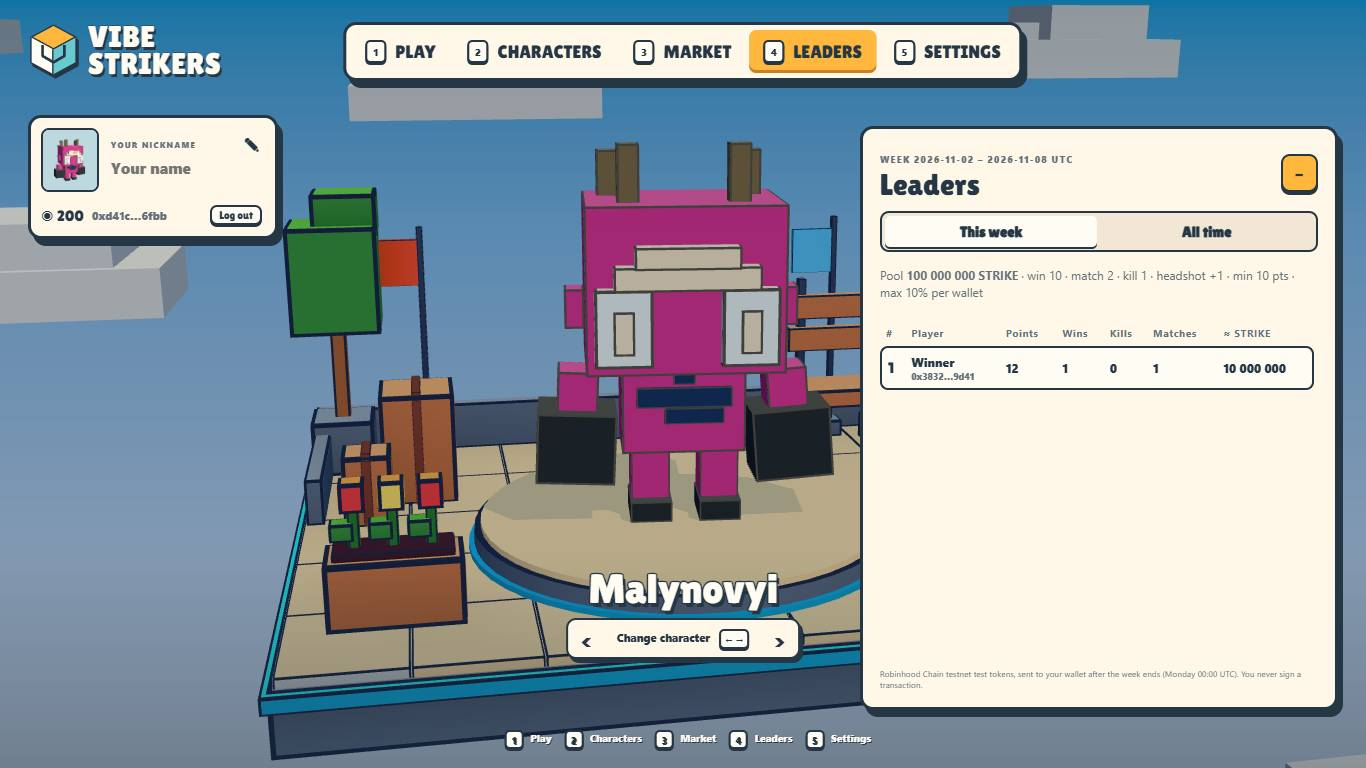
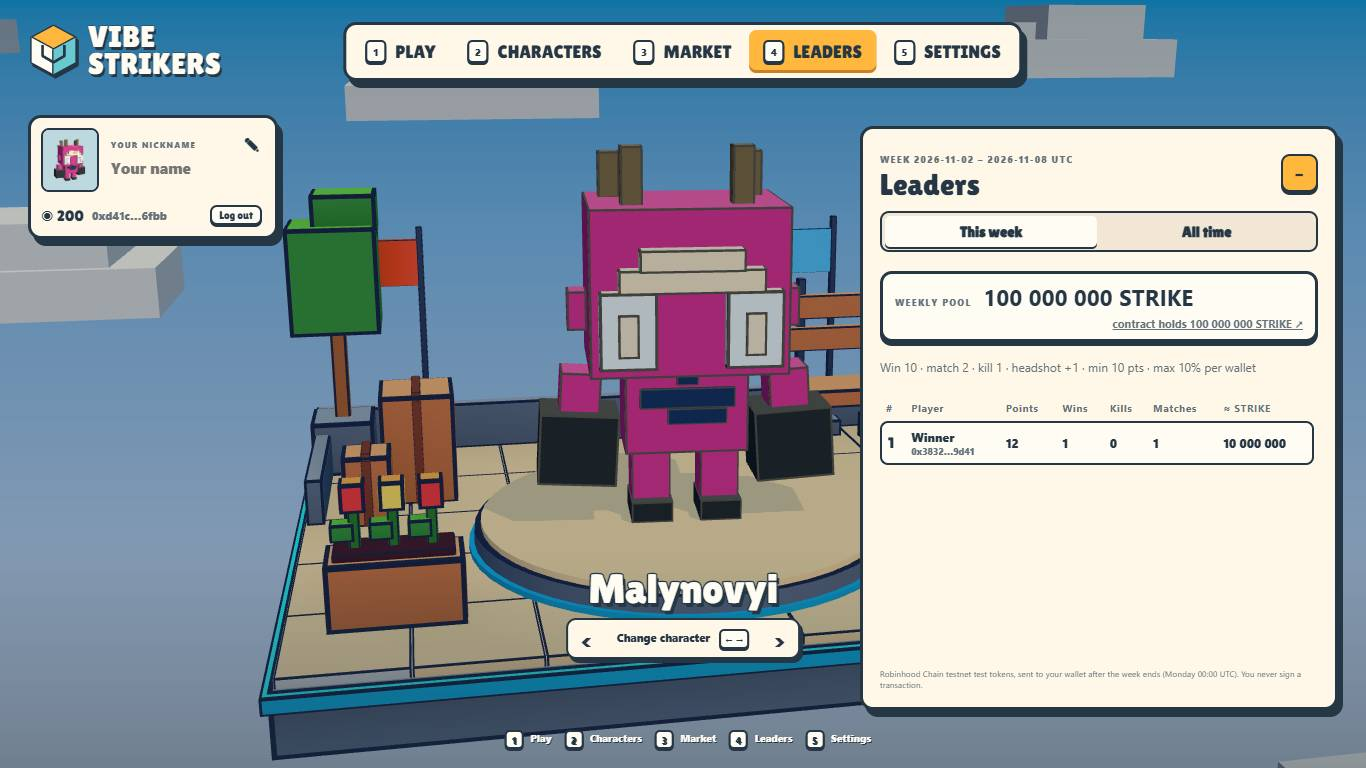
LEADERS: weekly pool card with the distributor's live STRIKE balance (read-only RPC) and explorer link

diff --git a/src/ui/leaderPanel.ts b/src/ui/leaderPanel.ts
@@ -5,6 +5,7 @@ import { REWARDS } from '../config/rewards.ts';
 import { formatTokens, payoutPlan, toUnits, weekLabel, weekPoints } from '../gameplay/rewards.ts';
 import { shortAddress } from '../gameplay/walletMessage.ts';
 import type { GameNet } from '../network/client.ts';
+import { poolBalance, poolExplorerUrl, refreshPoolBalance } from '../network/rewardsPool.ts';
 // Same styles as the market panel; imported here too so LEADERS works when MARKET was never opened.
 import '../../client/game/market.css';
 
@@ -76,11 +77,17 @@ export class LeaderPanel {
   }
 
   /** This week: points, and the share of the configured pool if the week ended now (payoutPlan). */
+  /** This week's pool: the configured amount, or less when the contract holds less (live balance). */
+  private weekPool(): bigint {
+    const cfg = toUnits(REWARDS.weekPoolTokens), live = poolBalance();
+    return live !== null && live < cfg ? live : cfg;
+  }
+
   private weekLines(): WeekLine[] {
     const m = this.net?.market;
     if (!m) return [];
     const rows = [...m.weekStats.values()];
-    const plan = new Map(payoutPlan(rows, toUnits(REWARDS.weekPoolTokens)).map((p) => [p.owner, p.amount]));
+    const plan = new Map(payoutPlan(rows, this.weekPool()).map((p) => [p.owner, p.amount]));
     return rows.map((r) => ({ owner: r.owner, name: r.name, points: weekPoints(r), wins: r.wins, kills: r.kills,
       matches: r.matches, amount: plan.get(r.owner) ?? 0n }))
       .sort((a, b) => b.points - a.points || b.wins - a.wins || a.owner.localeCompare(b.owner));
@@ -107,12 +114,19 @@ export class LeaderPanel {
     if (myRank >= TOP_ROWS) body += `<tr class="gap"><td colspan="7">…</td></tr>${this.weekRow(all[myRank], myRank + 1, me)}`;
     const p = REWARDS.points, sym = REWARDS.token.symbol;
     const empty = !m ? 'Connecting…' : all.length ? '' : 'No points this week yet. Log in with a wallet and play an online match.';
+    const live = poolBalance(), link = poolExplorerUrl();
+    // Re-read the contract balance (cached); redraw only when it changed, so this never loops.
+    void refreshPoolBalance().then((b) => { if (b !== live) this.refresh(); });
+    const held = live === null ? 'checking the contract…' : `contract holds ${formatTokens(live)} ${sym}`;
     this.root.innerHTML = `
       <header><div><span class="menu-eyebrow">WEEK ${m ? esc(weekLabel(m.week)) : ''} UTC</span><h2>Leaders</h2></div>
         <div class="market-coins" title="Your place this week">${myRank >= 0 ? `#${myRank + 1}` : me ? '–' : 'Guest'}</div></header>
       ${this.viewButtons()}
-      <p class="leaders-pool">Pool <strong>${formatTokens(toUnits(REWARDS.weekPoolTokens))} ${sym}</strong> · win ${p.win} · match ${p.match} ·
-        kill ${p.kill} · headshot +${p.headshot} · min ${REWARDS.minPoints} pts · max ${REWARDS.maxShareBps / 100}% per wallet</p>
+      <div class="leaders-pool-card"><span class="menu-eyebrow">WEEKLY POOL</span>
+        <strong>${formatTokens(this.weekPool())} ${sym}</strong>
+        ${link ? `<a href="${esc(link)}" target="_blank" rel="noopener noreferrer">${held} ↗</a>` : ''}</div>
+      <p class="leaders-pool">Win ${p.win} · match ${p.match} · kill ${p.kill} · headshot +${p.headshot} ·
+        min ${REWARDS.minPoints} pts · max ${REWARDS.maxShareBps / 100}% per wallet</p>
       <div class="market-list">${empty ? `<p class="market-empty">${empty}</p>` : `<table class="leaders-table">
         <thead><tr><th>#</th><th>Player</th><th>Points</th><th>Wins</th><th>Kills</th><th>Matches</th><th>≈ ${sym}</th></tr></thead>
         <tbody>${body}</tbody></table>`}</div>

diff --git a/src/network/rewardsPool.ts b/src/network/rewardsPool.ts
@@ -1,0 +1,32 @@
+// Live STRIKE balance of the WeeklyDistributor (GAME.md 6.9), read with one eth_call to the public testnet RPC.
+// Read only: no wallet, no transaction. Cached for REWARDS.poolRefreshMs; null while unknown or on errors.
+import { REWARDS } from '../config/rewards.ts';
+import { callData, decodeUint } from './evm.ts';
+
+let balance: bigint | null = null;
+let readAt = -Infinity;
+let pending: Promise<bigint | null> | null = null;
+
+/** Last known balance (base units), or null. */
+export function poolBalance(): bigint | null { return balance; }
+
+/** Explorer page of the distributor ('' before it is deployed). */
+export function poolExplorerUrl(): string {
+  return REWARDS.distributor ? `${REWARDS.chain.explorer}/address/${REWARDS.distributor}` : '';
+}
+
+/** Re-read the balance when the cached one is older than poolRefreshMs; resolves with the newest value. */
+export function refreshPoolBalance(): Promise<bigint | null> {
+  if (!REWARDS.distributor) return Promise.resolve(null);
+  if (pending) return pending;
+  if (performance.now() - readAt < REWARDS.poolRefreshMs) return Promise.resolve(balance);
+  pending = fetch(REWARDS.chain.rpc, {
+    method: 'POST',
+    headers: { 'content-type': 'application/json' },
+    body: JSON.stringify({ jsonrpc: '2.0', id: 1, method: 'eth_call', params: [{ to: REWARDS.distributor, data: callData('balance()') }, 'latest'] }),
+  }).then((r) => r.json() as Promise<{ result?: string }>)
+    .then((j) => { if (typeof j.result === 'string') { balance = decodeUint(j.result); readAt = performance.now(); } return balance; })
+    .catch(() => balance)
+    .finally(() => { pending = null; });
+  return pending;
+}

diff --git a/client/game/market.css b/client/game/market.css
@@ -37,6 +37,9 @@
 .market-login small { font-size: 10px; color: var(--menu-muted); }
 
 /* LEADERS tab (src/ui/leaderPanel.ts). */
+.leaders-pool-card { display: flex; flex-wrap: wrap; align-items: baseline; gap: 4px 12px; margin: 8px 0 2px; padding: 8px 12px; background: var(--menu-cream); border: 3px solid var(--menu-ink); border-radius: 12px; box-shadow: 0 4px 0 var(--menu-ink); }
+.leaders-pool-card strong { font-size: 22px; letter-spacing: .3px; }
+.leaders-pool-card a { margin-left: auto; font-size: 11px; font-weight: 700; color: var(--menu-muted); }
 .leaders-pool { margin: 4px 0 8px; font-size: 12px; line-height: 1.4; color: var(--menu-muted); }
 .leaders-table { width: 100%; border-collapse: separate; border-spacing: 0 4px; font-size: 12px; }
 .leaders-table th { position: sticky; top: 0; background: var(--menu-panel, #fff8e8); text-align: left; font-size: 10px; letter-spacing: .6px; color: var(--menu-muted); padding: 2px 6px; }

diff --git a/src/config/rewards.ts b/src/config/rewards.ts
@@ -30,6 +30,8 @@ export const REWARDS = {
   maxShareBps: 1000,
   /** Wallets with fewer points in the week get nothing. */
   minPoints: 10,
+  /** LEADERS re-reads the distributor's live balance from the RPC at most this often. */
+  poolRefreshMs: 60_000,
   /** Recipients per distribute() transaction (about 51k gas each, so about 5M gas per transaction). */
   batchSize: 100,
 } as const;

diff --git a/docs/GAME.md b/docs/GAME.md
@@ -228,8 +228,10 @@ Testnet only. Token STRIKE (`REWARDS.token`, the owner's ERC-20 on Robinhood Cha
   re-sending a batch is safe; `withdraw`, `setOwner`. Players never call it and never sign a transaction.
 - Admin page `client/admin.html` (own site https://vibe-strikers-admin.pages.dev via `npm run admin:build`; not in the game build): connect MetaMask (switches to the
   testnet), deploy, fund, load a week from the server's SQL endpoint, pay, withdraw. No private keys anywhere.
-- LEADERS tab: "This week" (default: points, wins, kills, matches, estimated STRIKE if the week ended now with
-  `weekPoolTokens`) and "All time" (6.8).
+- LEADERS tab: "This week" (default: points, wins, kills, matches, estimated STRIKE if the week ended now) and
+  "All time" (6.8). A WEEKLY POOL card shows `weekPoolTokens` (or less if the contract holds less) and the
+  distributor's live balance with an explorer link: one read-only `eth_call` to the public testnet RPC
+  (`network/rewardsPool.ts`, cached `poolRefreshMs`), no wallet needed.
 
 ## 7. Bots — DECIDED
 Server-side fake players using the same intent path. Waypoint graph generated from

diff --git a/docs/PROGRESS.md b/docs/PROGRESS.md
@@ -594,6 +594,8 @@ Asset owner update (2026-10-31, imported by the owner's assistant, not by the ga
   (`REWARDS.distributor`), owner 0x08e4f62ed093124aa3ce257830c81b2bc14a51e9, token STRIKE, funded with
   100 000 000 STRIKE (checked over the RPC: chain 46630, code present, owner / token / balance as expected).
   First payout: Monday 2026-11-09 for week 2965 (2026-11-02 – 2026-11-08).
+  Owner: show the pool in the game -> LEADERS "This week" has a WEEKLY POOL card with the contract's live balance
+  (read-only RPC call, explorer link); checked in Chromium, 0 console errors (`docs/evidence/leaders-pool-live.jpg`).
   Local SpacetimeDB: the new CLI login (Maincloud) could not update the local database made by the old identity, so
   the old data folder was moved to `%LOCALAPPDATA%\SpacetimeDB\data-old-2026-11-06` and the local server started
   fresh (test data only; delete the old folder when sure).
